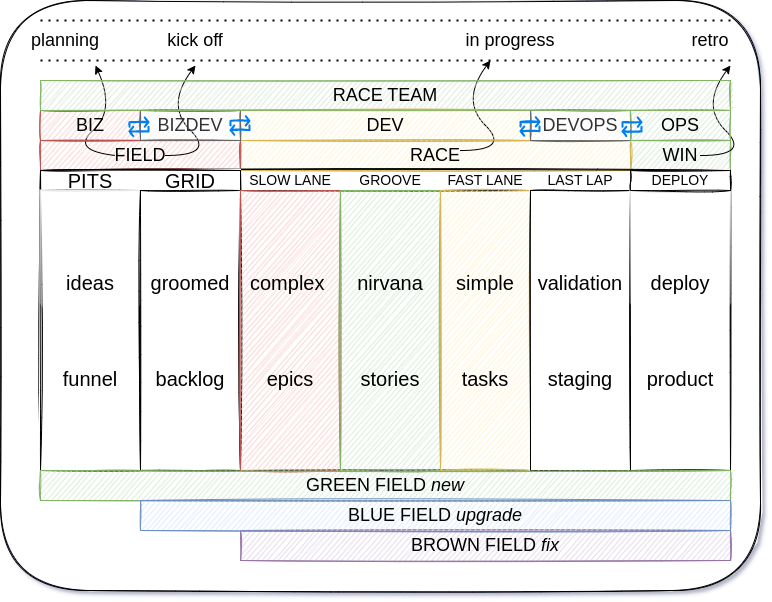
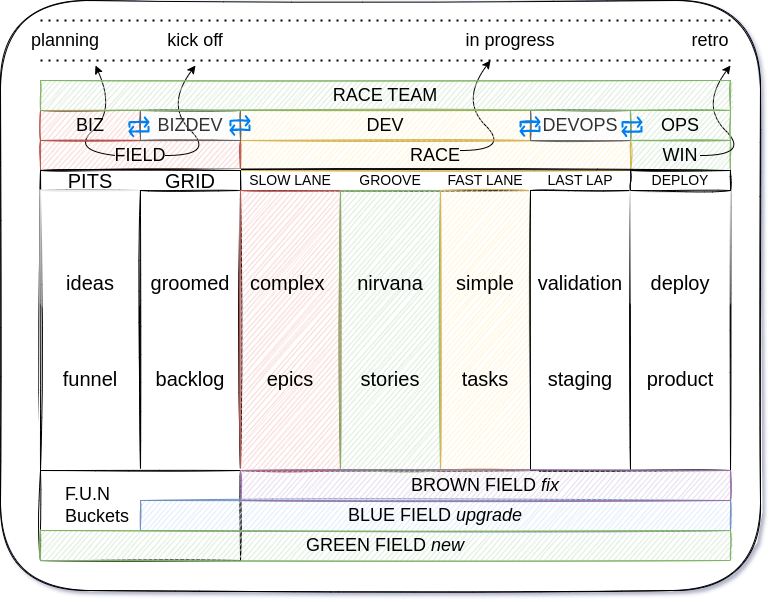
fun buckets

Changed region(s): [[0.0311, 0.7774, 0.9637, 0.9568], [0.9326, 0.897, 0.9637, 0.9269]]

diff --git a/0cta.md b/0cta.md
@@ -1,10 +1,35 @@
 ## CTA - Context-Technoloy-Asides
 
-- capture Use case Specifications, requirements & acceptance criteria
+- capture use case Specifications, requirements & acceptance criteria without hardcoding top-down requirements or having to manage-up
+- CTAs should be living documents
+- Participants should be responsive
+- The process should be creative
+
+### Outline
+
 - context: the biz context; put on your CEO & forward-facing CTO hat
+  - strive to provide what needs to be achieved, vs what someone needs to do
+  - taking a declarative approach enables more flexibility in how downstream tasks materialize
+  - the context should invoke questions of why, not questions of what
 - technology: the tech context & implementation strategy; put on your inward-facing CTO & engineer hat
+  - how do we achieve the goals & vision setout by the context?
+  - how do we build something resilient to future (and expected) changes
 - asides: additional abbreviations supporting the biz & tech context
-- buckets
-  - new: greenfield > rapid prototyping
-  - upgrade: bluefield > enhancements & restrictions
-  - fix: brownfield > intolerables
+
+### F.U.N buckets
+
+#### Fix
+
+- brownfield > intolerables: straight to a race
+- e.g. bugs, defects
+
+#### Upgrade
+
+- bluefield > enhancements & restrictions: line up in the grid
+- e.g. new tests, redesign, revamps, improvements
+- we dont use the word `refactor` in these parts of town
+
+#### New
+
+- greenfield > rapid prototyping: require pit boss approval
+- everyone loves something new

diff --git a/README.md b/README.md
@@ -1,10 +1,10 @@
 # BizDevOps @ NIRV
 
-- [DevBizOps](https://enterprisersproject.com/article/2019/9/devops-what-is-bizdevops)
+- [BizDevOps](https://enterprisersproject.com/article/2019/9/devops-what-is-bizdevops)
 
 ## RACExP
 
-- Shifting Prod & Proj management into development
+- Holistic product, research and development race teams
 - **RACEXP**: **R**ealistic **A**gile **C**oncepts for **EX**tream **P**rogramming
   - ![@noahedwardhall RACE:XP](./images/racexp.png)
   - [read more](./0racexp.md)
@@ -17,6 +17,6 @@
 
 ## CTA
 
-- Use case call to actions
+- Creative call to actions
 - **CTA**: **C**ontext **T**echnology **A**sides
   - [read more](./0cta.md)
